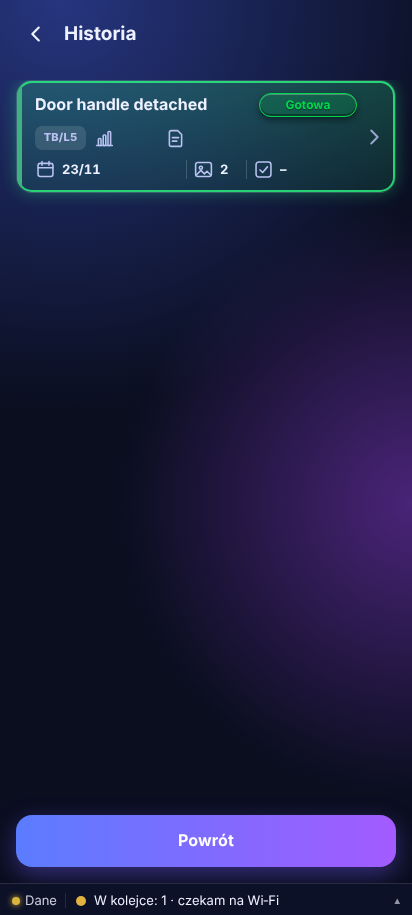
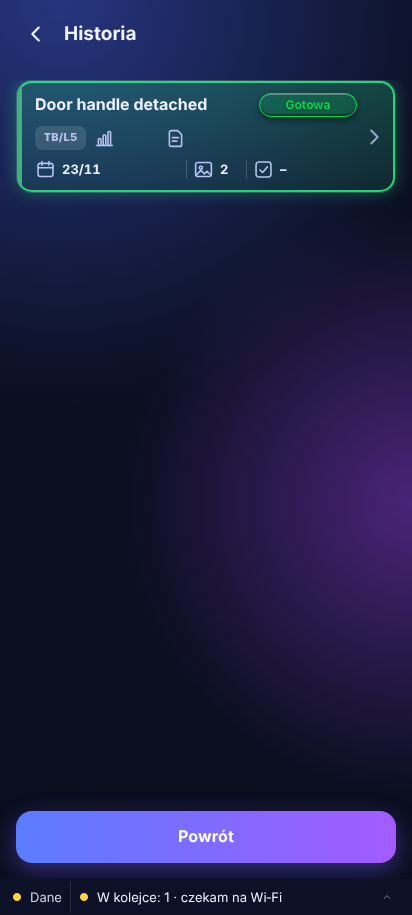
Podgląd zdjęcia na cały ekran jak na main (OESTOkna.okno pelny); przegladarka.js bez własnego T i kopii dd; pasek wysyłki: bez tekstów poza apką; testy: ekran główny (#oest-pasek-wysylki), lista BODY_OK bez zdjecia-ui.js
Claude-Session: https://claude.ai/code/session_01F3GNBjA6RvDRV3qFNWbpEc

Changed region(s): [[0.0291, 0.8874, 0.9612, 1.0]]

diff --git a/moduly/raporty/przegladarka.js b/moduly/raporty/przegladarka.js
@@ -23,11 +23,9 @@
   "use strict";
   var BLD = { "Tower A": "TA", "Tower B": "TB", "Pavilion": "P" };
   var state = { q: "", b: "" };
-  function T(pl, en) { return w.OESTT(pl, en); }
   function blad(e) { return w.OESTBledy ? w.OESTBledy.text(e) : String(e && e.message || e); }
   function komunikat(tytul, tresc) { return w.OESTOkna && w.OESTOkna.pytaj ? w.OESTOkna.pytaj({ tytul: tytul, tresc: tresc, tylkoOk: true }) : Promise.resolve(true); }
-  function budynki() { return [["", T("Wszystkie", "All")], ["Tower A", "Tower A"], ["Tower B", "Tower B"], ["Pavilion", "Pavilion"], ["General", T("Ogólne", "General")], ["Reactive", "Reactive"]].map(function (o) { return { v: o[0], t: o[1] }; }); }
-  function dd(d) { return String(d.getDate()).padStart(2, "0") + "/" + String(d.getMonth() + 1).padStart(2, "0"); }
+  function budynki() { return [["", w.OESTT("Wszystkie", "All")], ["Tower A", "Tower A"], ["Tower B", "Tower B"], ["Pavilion", "Pavilion"], ["General", w.OESTT("Ogólne", "General")], ["Reactive", "Reactive"]].map(function (o) { return { v: o[0], t: o[1] }; }); }
   // odzyskana inspekcja jako zwykły klocek inspekcji: dane z zapisu inspekcji w raporcie (bez nowego układu)
   function recCard(r) {
     var m = r.meta || {}, c = m.card || {}, s = r.snap || {}, f = s.fields || {}; // c: opis klocka zapisany przez apkę przy wysyłce
@@ -37,22 +35,22 @@
       { rodzaj: "pytania", n: used ? Math.min(ok, 99) + "/" + Math.min(used, 99) : "–", ton: used ? (ok === used ? "success" : "warning") : undefined }];
     if (n > 0) ikony.push({ rodzaj: "usterki", n: Math.min(n, 99), ton: "warning" });
     return { id: r.id, pasek: "fioletowy", nazwa: c.name || m.code || r.name, status: { tryb: "odzyskana" }, opis: c.loc || "", czestotliwosc: c.freq === "12M" ? "Y" : String(c.freq || "").slice(0, 3),
-      formularz: ph.some(function (p) { return p.sheet; }) ? "ok" : "brak", termin: { tekst: dz ? dd(new Date(+dz[1], +dz[2] - 1, +dz[3])) : "–" }, ikony: ikony, akcja: T("Otwórz", "Open") };
+      formularz: ph.some(function (p) { return p.sheet; }) ? "ok" : "brak", termin: { tekst: dz ? w.OESTKlocek.termin(new Date(+dz[1], +dz[2] - 1, +dz[3])).date : "–" }, ikony: ikony, akcja: w.OESTT("Otwórz", "Open") };
   }
   function card(R, r) {
     var f = r.folder || [], drive = r.driveId && !r.dirty;
-    return { id: r.id, pasek: drive ? "zielony" : "zolty", nazwa: r.name, znak: BLD[f[0]], status: { tekst: drive ? T("Na Dysku", "On Drive") : T("Czeka na Dysk", "Waiting for Drive"), ton: drive ? 2 : 1 },
-      opis: f.join(" · ") || "—", termin: { tekst: T("Wysłany ", "Sent ") + R.day(r) + (r.versions > 1 ? " · " + T("wersja ", "version ") + r.versions : "") }, akcja: T("Otwórz", "Open") };
+    return { id: r.id, pasek: drive ? "zielony" : "zolty", nazwa: r.name, znak: BLD[f[0]], status: { tekst: drive ? w.OESTT("Na Dysku", "On Drive") : w.OESTT("Czeka na Dysk", "Waiting for Drive"), ton: drive ? 2 : 1 },
+      opis: f.join(" · ") || "—", termin: { tekst: w.OESTT("Wysłany ", "Sent ") + R.day(r) + (r.versions > 1 ? " · " + w.OESTT("wersja ", "version ") + r.versions : "") }, akcja: w.OESTT("Otwórz", "Open") };
   }
   var seq = 0;
   function lista() {
     var R = w.OESTRaporty, my = ++seq;
-    if (!R) return Promise.resolve({ odzyskane: [], raporty: [], pusto: T("Archiwum raportów niedostępne.", "Report archive unavailable.") });
+    if (!R) return Promise.resolve({ odzyskane: [], raporty: [], pusto: w.OESTT("Archiwum raportów niedostępne.", "Report archive unavailable.") });
     var rec = R.recovered ? R.recovered().catch(function () { return []; }) : Promise.resolve([]);
     return Promise.all([rec, R.list()]).then(function (x) {
       var all = x[1], hit = R.find(all, state.q, { building: state.b });
       return { aktualne: my === seq, odzyskane: x[0].map(recCard), raporty: hit.map(function (r) { return card(R, r); }),
-        pusto: !all.length ? T("Brak raportów w telefonie. Każdy wysłany raport pojawi się tutaj.", "No reports on this phone yet. Every sent report appears here.") : !hit.length ? T("Nic nie pasuje do szukania.", "Nothing matches your search.") : "" };
+        pusto: !all.length ? w.OESTT("Brak raportów w telefonie. Każdy wysłany raport pojawi się tutaj.", "No reports on this phone yet. Every sent report appears here.") : !hit.length ? w.OESTT("Nic nie pasuje do szukania.", "Nothing matches your search.") : "" };
     }, function (e) { return { aktualne: my === seq, odzyskane: [], raporty: [], pusto: blad(e) }; });
   }
   function otworzOdzyskana(id) {
@@ -70,23 +68,23 @@
       try { pv = w.PizZip ? R.docxPreview(r.docx, w.PizZip) : null; } catch (e) { pv = null; }
       var to = S && S.recipients ? S.recipients({ sp: 1, sm: 1, se: 1, sg: 1 }) : { priv: "", me: "", eng: "", man: "" };
       // Reactive wysyłamy tylko na firmowy e-mail (PROD-025) – tak jak przy pierwszej wysyłce
-      var reactive = reactiveR(r), only = T("Reactive: tylko firmowy e-mail", "Reactive: work email only");
+      var reactive = reactiveR(r), only = w.OESTT("Reactive: tylko firmowy e-mail", "Reactive: work email only");
       function cb(k, label, addr, missing) { var off = !addr || (reactive && k !== "sm"); return { k: k, tekst: label, adres: reactive && k !== "sm" ? only : addr || missing, wylaczony: off, zaznaczony: k === "sm" && !!addr }; }
       var zdjecia = pv ? pv.images.map(function (i) { var u = URL.createObjectURL(new Blob([i.bytes], { type: i.type })); urls.push(u); return u; }) : [];
       return {
         tytul: r.name,
-        meta: (r.folder || []).join(" · ") + " · " + T("wysłany ", "sent ") + R.day(r) + " · Word + PDF",
-        linie: pv ? pv.lines : [T("Nie udało się otworzyć podglądu. Raport można wysłać.", "Could not open the preview. The report can still be sent.")],
+        meta: (r.folder || []).join(" · ") + " · " + w.OESTT("wysłany ", "sent ") + R.day(r) + " · Word + PDF",
+        linie: pv ? pv.lines : [w.OESTT("Nie udało się otworzyć podglądu. Raport można wysłać.", "Could not open the preview. The report can still be sent.")],
         zdjecia: zdjecia,
-        odzyskaj: r.snap && !reactive ? (r.rec ? T("Otwórz odzyskaną inspekcję", "Open recovered inspection") : T("Odzyskaj do edycji", "Recover for editing")) : "",
-        dysk: r.driveId ? { adres: "https://drive.google.com/file/d/" + encodeURIComponent(r.driveId) + "/view", tekst: T("Otwórz na Dysku", "Open on Drive") } : null,
-        adresaciTytul: T("Do kogo", "Send to"),
+        odzyskaj: r.snap && !reactive ? (r.rec ? w.OESTT("Otwórz odzyskaną inspekcję", "Open recovered inspection") : w.OESTT("Odzyskaj do edycji", "Recover for editing")) : "",
+        dysk: r.driveId ? { adres: "https://drive.google.com/file/d/" + encodeURIComponent(r.driveId) + "/view", tekst: w.OESTT("Otwórz na Dysku", "Open on Drive") } : null,
+        adresaciTytul: w.OESTT("Do kogo", "Send to"),
         adresaci: [
-          cb("sp", T("Mój prywatny e-mail", "My private email"), to.priv, T("brak adresu w Mój profil", "no address in My Profile")),
-          cb("sm", T("Mój firmowy e-mail", "My work email"), to.me, T("brak adresu w Mój profil", "no address in My Profile")),
-          cb("se", T("Inżynier", "Engineer"), to.eng, T("ustaw w Ustawienia → Wysyłka", "set in Settings → Mail")),
-          cb("sg", T("Manager", "Manager"), to.man, T("ustaw w Ustawienia → Wysyłka", "set in Settings → Mail"))],
-        ok: T("Wyślij", "Send"), anuluj: T("Zamknij", "Close"),
+          cb("sp", w.OESTT("Mój prywatny e-mail", "My private email"), to.priv, w.OESTT("brak adresu w Mój profil", "no address in My Profile")),
+          cb("sm", w.OESTT("Mój firmowy e-mail", "My work email"), to.me, w.OESTT("brak adresu w Mój profil", "no address in My Profile")),
+          cb("se", w.OESTT("Inżynier", "Engineer"), to.eng, w.OESTT("ustaw w Ustawienia → Wysyłka", "set in Settings → Mail")),
+          cb("sg", w.OESTT("Manager", "Manager"), to.man, w.OESTT("ustaw w Ustawienia → Wysyłka", "set in Settings → Mail"))],
+        ok: w.OESTT("Wyślij", "Send"), anuluj: w.OESTT("Zamknij", "Close"),
         zwolnij: function () { urls.forEach(function (u) { URL.revokeObjectURL(u); }); urls = []; }
       };
     });
@@ -96,19 +94,19 @@
     var R = w.OESTRaporty, S = w.OESTSender, d = (o && o.dane) || {};
     return R.get(id).then(function (r) {
       if (!r) return;
-      if (d.odzyskaj) return R.setRec(r.id, true).then(function () { otworzOdzyskana(r.id); }, function (e) { return komunikat(T("Nie odzyskano", "Not recovered"), blad(e)); });
+      if (d.odzyskaj) return R.setRec(r.id, true).then(function () { otworzOdzyskana(r.id); }, function (e) { return komunikat(w.OESTT("Nie odzyskano", "Not recovered"), blad(e)); });
       if (!o || !o.ok) return;
       var sel = {}, a = d.adresaci || { sm: true }; Object.keys(a).forEach(function (k) { if (a[k]) sel[k] = true; });
       if (reactiveR(r)) sel = { sm: !!sel.sm };
       var list = S && S.recipients ? S.recipients(sel).list : [];
-      if (!S || !S.active || !S.active() || !S.enqueue) return komunikat(T("Wysyłka niedostępna", "Sending unavailable"), T("Zaloguj się do Google w apce.", "Sign in to Google in the app."));
-      if (!list.length) return komunikat(T("Brak adresata", "No recipient"), T("Zaznacz, do kogo wysłać.", "Tick who to send it to."));
-      return S.enqueue({ type: "archive", code: r.name, name: r.name, subject: r.name, body: r.name + "\n" + T("Raport z archiwum OEST", "Report from the OEST archive") + " (" + R.day(r) + ")\n",
+      if (!S || !S.active || !S.active() || !S.enqueue) return komunikat(w.OESTT("Wysyłka niedostępna", "Sending unavailable"), w.OESTT("Zaloguj się do Google w apce.", "Sign in to Google in the app."));
+      if (!list.length) return komunikat(w.OESTT("Brak adresata", "No recipient"), w.OESTT("Zaznacz, do kogo wysłać.", "Tick who to send it to."));
+      return S.enqueue({ type: "archive", code: r.name, name: r.name, subject: r.name, body: r.name + "\n" + w.OESTT("Raport z archiwum OEST", "Report from the OEST archive") + " (" + R.day(r) + ")\n",
         docx: r.docx, pdf: r.pdf || new Uint8Array(0), toList: list, noArchive: true, rpt: r.folder }).then(function () {
-        return komunikat(T("W kolejce", "Queued"), T("Raport czeka w kolejce – pasek na dole pokaże wysyłkę.", "The report is queued – the bar at the bottom shows sending."));
+        return komunikat(w.OESTT("W kolejce", "Queued"), w.OESTT("Raport czeka w kolejce – pasek na dole pokaże wysyłkę.", "The report is queued – the bar at the bottom shows sending."));
       }, function (e) {
         // nie trafił do kolejki (np. brak miejsca w telefonie): mówimy wprost, nic nie udajemy; ponowienie = otworzyć raport i Wyślij jeszcze raz
-        return komunikat(T("Nie wysłano", "Not sent"), T("Nie udało się dodać raportu do kolejki: ", "Could not add the report to the queue: ") + blad(e) + T("\nOtwórz raport i spróbuj ponownie.", "\nOpen the report and try again."));
+        return komunikat(w.OESTT("Nie wysłano", "Not sent"), w.OESTT("Nie udało się dodać raportu do kolejki: ", "Could not add the report to the queue: ") + blad(e) + w.OESTT("\nOtwórz raport i spróbuj ponownie.", "\nOpen the report and try again."));
       });
     });
   }

diff --git a/moduly/szkielet/src/szkielet.css b/moduly/szkielet/src/szkielet.css
@@ -79,6 +79,12 @@ ion-modal.oest-okno ion-button { text-transform: none; letter-spacing: 0; }
 ion-modal.oest-okno ion-footer ion-buttons { flex: 1 1 auto; gap: 10px; padding: 6px 10px 10px; }
 ion-modal.oest-okno ion-footer ion-button { flex: 1 1 0; min-height: 48px; font-size: 15px; font-weight: 700; --border-radius: 14px; }
 ion-modal.oest-okno ion-footer ion-button:not(:last-child) { --background: #222746; --color: #ffffff; --border-radius: 14px; }
+/* podgląd na cały ekran (OESTOkna.okno({ pelny: true }), np. zdjęcie): ciemne tło bez ramki, treść na środku – jak dawny podgląd na main */
+ion-modal.oest-okno.oest-podglad { --width: 100%; --height: 100%; --max-width: none; --max-height: none; --border-radius: 0; --border-width: 0; --background: rgba(6, 8, 20, 0.94); }
+ion-modal.oest-podglad ion-content { --background: transparent; }
+ion-modal.oest-podglad ion-label p { color: #9aa6ff !important; }
+ion-modal.oest-podglad ion-content::part(scroll) { display: flex; flex-direction: column; justify-content: center; }
+ion-button.oest-szary { --background: #222746; --background-activated: #2a3058; --background-hover: #2a3058; --color: #ffffff; --color-activated: #ffffff; text-transform: none; letter-spacing: 0; --border-radius: 14px; --border-color: var(--line); --border-width: 1px; --border-style: solid; min-height: 48px; min-width: 120px; font-size: 15px; font-weight: 700; }
 ion-item ion-label.oest-etykieta { font-size: 15px !important; color: var(--steel) !important; }
 ion-modal.oest-okno ion-footer ion-button.ion-color-primary:last-child { --ion-color-base: var(--grad) !important; --background: var(--grad); --background-activated: var(--grad); --background-hover: var(--grad); --background-focused: var(--grad); --color: #ffffff; }
 /* pigułka statusu (czesci/Pigulka.vue): stała szerokość jak na main (98 px) – PL/EN nic nie przesuwa */

diff --git a/moduly/szkielet/src/ekrany/ZdjeciePodglad.vue b/moduly/szkielet/src/ekrany/ZdjeciePodglad.vue
@@ -1,12 +1,14 @@
-<!-- Podgląd zdjęcia z folderu OEST (treść okienka OESTOkna.okno): zdjęcie, nazwa, folder i rozmiar; „Usuń” (po pytaniu) i „Zamknij”.
+<!-- Podgląd zdjęcia z folderu OEST (treść okienka OESTOkna.okno({ pelny: true })): zdjęcie, nazwa, folder i rozmiar; „Usuń” (po pytaniu) i „Zamknij”.
      Dane: OESTZdjeciaUI.podglad(id); usunięcie: OESTZdjeciaUI.usun(id) – błąd zostaje w okienku. -->
 <template>
   <div id="zdView">
     <ion-img :src="p.adres" alt=""></ion-img>
-    <ion-item lines="none"><ion-label class="ion-text-wrap">{{ p.nazwa }}<p>{{ p.opis }}</p></ion-label></ion-item>
+    <ion-item lines="none"><ion-label class="ion-text-wrap ion-text-center">{{ p.nazwa }}<p>{{ p.opis }}</p></ion-label></ion-item>
     <ion-item v-if="blad" lines="none"><ion-note color="danger" role="alert">{{ blad }}</ion-note></ion-item>
-    <ion-button data-a="del" expand="block" fill="outline" color="danger" @click="usunTo"><ion-icon slot="start" :icon="trashOutline" aria-hidden="true"></ion-icon>{{ p.usun }}</ion-button>
-    <ion-button data-a="close" expand="block" fill="outline" @click="emit('zamknij', false)">{{ p.zamknij }}</ion-button>
+    <div class="ion-text-center">
+      <ion-button data-a="del" fill="outline" class="oest-szary" @click="usunTo"><ion-icon slot="start" :icon="trashOutline" aria-hidden="true"></ion-icon>{{ p.usun }}</ion-button>
+      <ion-button data-a="close" fill="outline" class="oest-szary" @click="emit('zamknij', false)">{{ p.zamknij }}</ion-button>
+    </div>
   </div>
 </template>
 

diff --git a/moduly/szkielet/src/czesci/Okno.vue b/moduly/szkielet/src/czesci/Okno.vue
@@ -1,8 +1,8 @@
 <!-- Okienko z własną treścią (ion-modal) – JEDNO w całej apce: tytuł, treść (komponent Vue ekranu) i przyciski na dole.
-     Otwiera je OESTOkna.okno({ tytul, komponent, wlasciwosci, ok, anuluj, bezPrzyciskow }) → Promise<{ ok, dane }>.
+     Otwiera je OESTOkna.okno({ tytul, komponent, wlasciwosci, ok, anuluj, bezPrzyciskow, pelny }) → Promise<{ ok, dane }>.
      Treść oddaje dane przez zdarzenie „dane” (np. zaznaczone pola); Wstecz telefonu i „Anuluj” = { ok: false }. -->
 <template>
-  <ion-header>
+  <ion-header v-if="!pelny">
     <ion-toolbar>
       <ion-title>{{ tytul }}</ion-title>
       <ion-buttons slot="end"><ion-button @click="zamknij(false)" :aria-label="T('Zamknij', 'Close')"><ion-icon slot="icon-only" :icon="close"></ion-icon></ion-button></ion-buttons>
@@ -25,7 +25,7 @@
 import { ref } from 'vue';
 import { IonHeader, IonToolbar, IonTitle, IonButtons, IonButton, IonIcon, IonContent, IonFooter, modalController } from '@ionic/vue';
 import { close } from 'ionicons/icons';
-const props = defineProps({ T: Function, tytul: String, komponent: Object, wlasciwosci: Object, ok: String, anuluj: [String, Boolean], niebezpieczne: Boolean, bezPrzyciskow: Boolean });
+const props = defineProps({ T: Function, tytul: String, komponent: Object, wlasciwosci: Object, ok: String, anuluj: [String, Boolean], niebezpieczne: Boolean, bezPrzyciskow: Boolean, pelny: Boolean });
 const dane = ref(null);
 function zamknij(ok) { modalController.dismiss({ ok, dane: dane.value }, ok ? 'ok' : 'cancel'); }
 </script>

diff --git a/moduly/wysylka/wysylka.js b/moduly/wysylka/wysylka.js
@@ -253,12 +253,12 @@
     }).then(function () { run({ login: true, anyNet: true }); }); // Ponów = świadoma decyzja, także przez dane
   }
   function render() {
+    var cap = root.Capacitor;
+    if (!(cap && cap.isNativePlatform && cap.isNativePlatform())) { stan = { widoczny: false, ton: "", tekst: "", opis: "", przyciski: [], postep: 0, siec: { stan: "na", tekst: "" }, otwarty: false }; emit(); return; } // pasek stale w apce
     var p = pending(), n = p.length, err = p.filter(function (q) { return q.status === "err"; })[0];
     var cls = "", txt = "", opis = "", more = [], prog = 0;
     var b = function (a, t, go) { return { a: a, tekst: t, glowny: !!go }; };
     var qb = b("queue", root.OESTT("Pokaż kolejkę", "Show queue"));
-    var cap = root.Capacitor;
-    if (!(cap && cap.isNativePlatform && cap.isNativePlatform())) { stan = { widoczny: false, ton: "", tekst: "", opis: "", przyciski: [], postep: 0, siec: { stan: "na", tekst: "" }, otwarty: false }; emit(); return; } // pasek stale w apce
     if (!active()) { cls = "err"; txt = n ? root.OESTT("W kolejce: ", "Queued: ") + n + root.OESTT(" · Gmail niepołączony", " · Gmail not connected") : root.OESTT("Gmail niepołączony", "Gmail not connected");
       opis = root.OESTT("Żeby raporty szły same: Ustawienia → Konto → Wyloguj i zaloguj przez Google, uzupełnij firmowy e-mail w Mój profil.", "To send reports automatically: Settings → Account → Sign out and sign in with Google, then add your work email in My Profile."); more = [qb]; }
     else

diff --git a/moduly/szkielet/src/main.js b/moduly/szkielet/src/main.js
@@ -70,10 +70,11 @@ const OESTOkna = {
     const r = (await a.onDidDismiss()).role;
     return o.tylkoOk ? true : r === 'confirm' || r === 'destructive';
   },
-  // okienko z własną treścią (komponent Vue): OESTOkna.okno({ tytul, komponent, wlasciwosci, ok, anuluj, niebezpieczne, bezPrzyciskow }) → Promise<{ ok, dane }>
+  // okienko z własną treścią (komponent Vue): OESTOkna.okno({ tytul, komponent, wlasciwosci, ok, anuluj, niebezpieczne, bezPrzyciskow, pelny }) → Promise<{ ok, dane }>
+  //   pelny: podgląd na cały ekran bez paska tytułu (ciemne tło, treść na środku) – jak dawny podgląd zdjęcia
   async okno(o) {
     o = o || {};
-    const m = await modalController.create({ component: Okno, componentProps: { ...o, T }, cssClass: 'oest-okno' }); // karta na środku jak dawne okienko apki (szkielet.css)
+    const m = await modalController.create({ component: Okno, componentProps: { ...o, T }, cssClass: o.pelny ? 'oest-okno oest-podglad' : 'oest-okno' }); // karta na środku jak dawne okienko apki (szkielet.css)
     await m.present();
     const r = await m.onDidDismiss();
     return r.data || { ok: false, dane: null };

diff --git a/moduly/szkielet/src/ekrany/Zdjecia.vue b/moduly/szkielet/src/ekrany/Zdjecia.vue
@@ -85,7 +85,7 @@ async function odswiez() {
 }
 async function pokaz(id) {
   const p = await Z.podglad(id); if (!p) return;
-  await window.OESTOkna.okno({ tytul: p.nazwa, komponent: ZdjeciePodglad, wlasciwosci: { p, usun: Z.usun }, bezPrzyciskow: true });
+  await window.OESTOkna.okno({ tytul: p.nazwa, komponent: ZdjeciePodglad, wlasciwosci: { p, usun: Z.usun }, bezPrzyciskow: true, pelny: true });
 }
 let odpisz = null;
 watch(() => props.wersja, odswiez);
